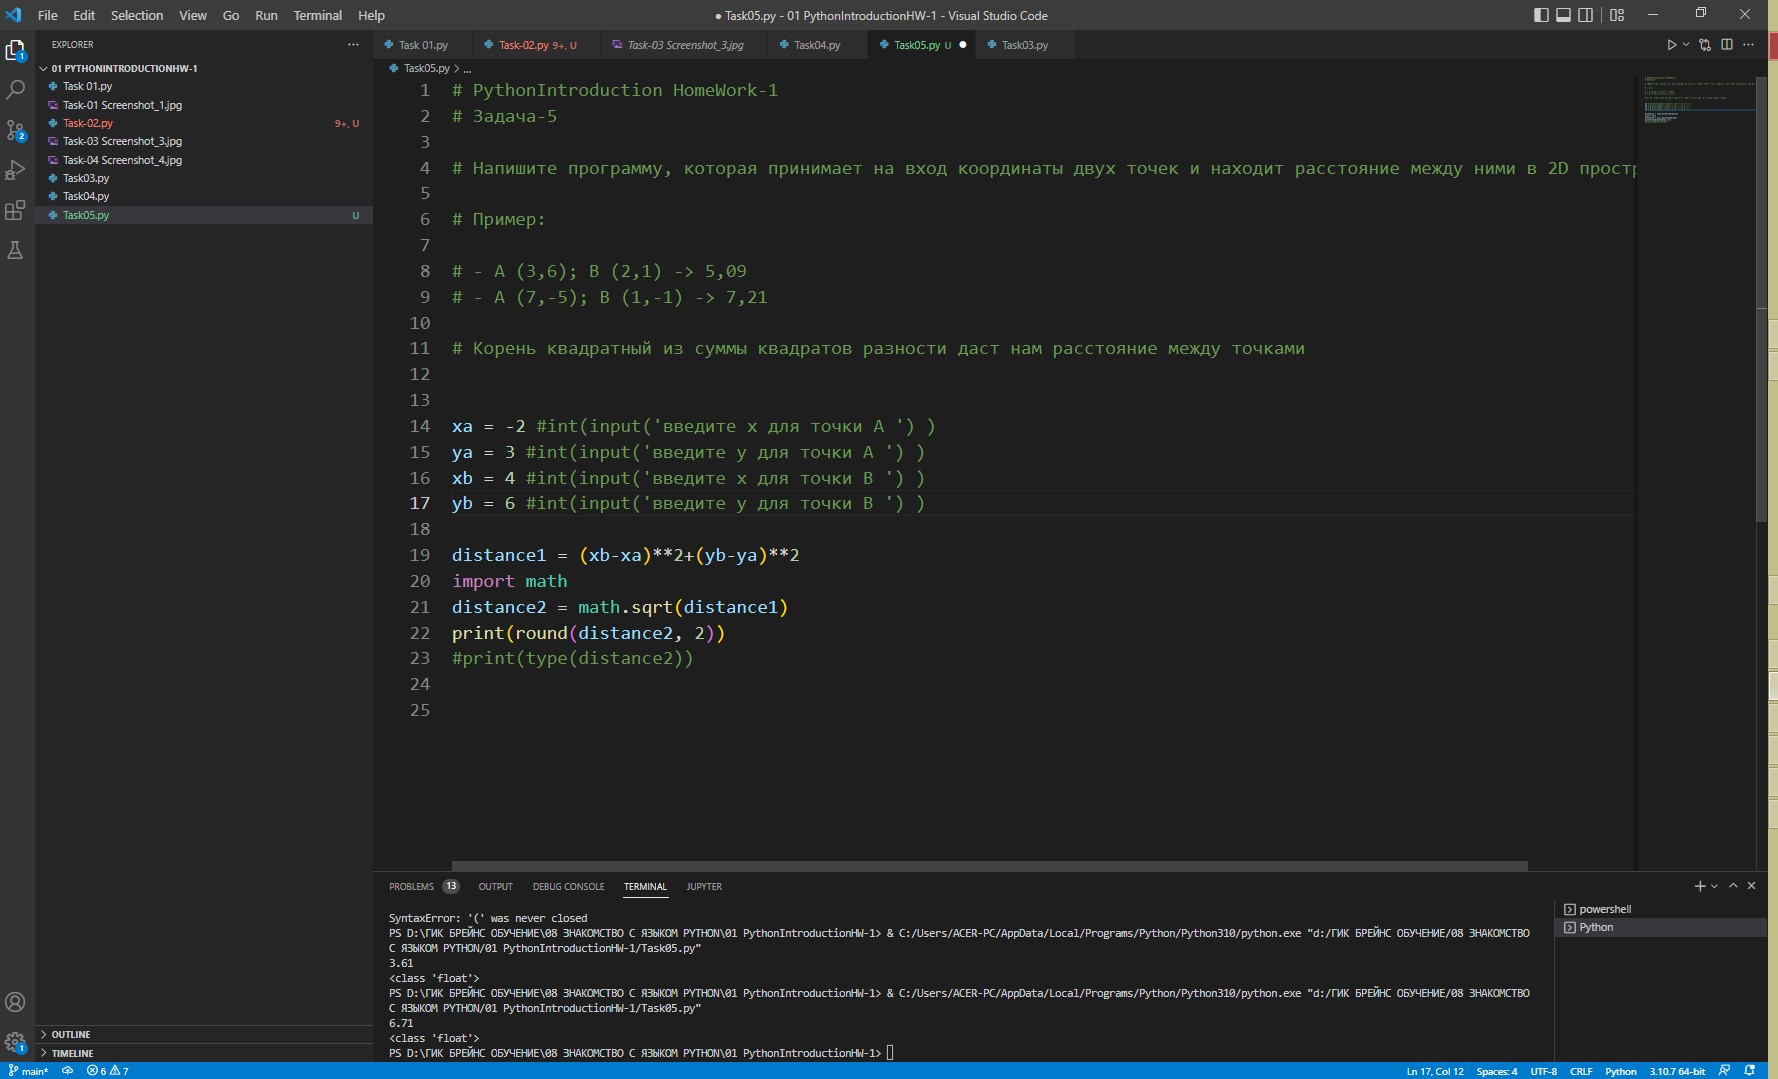
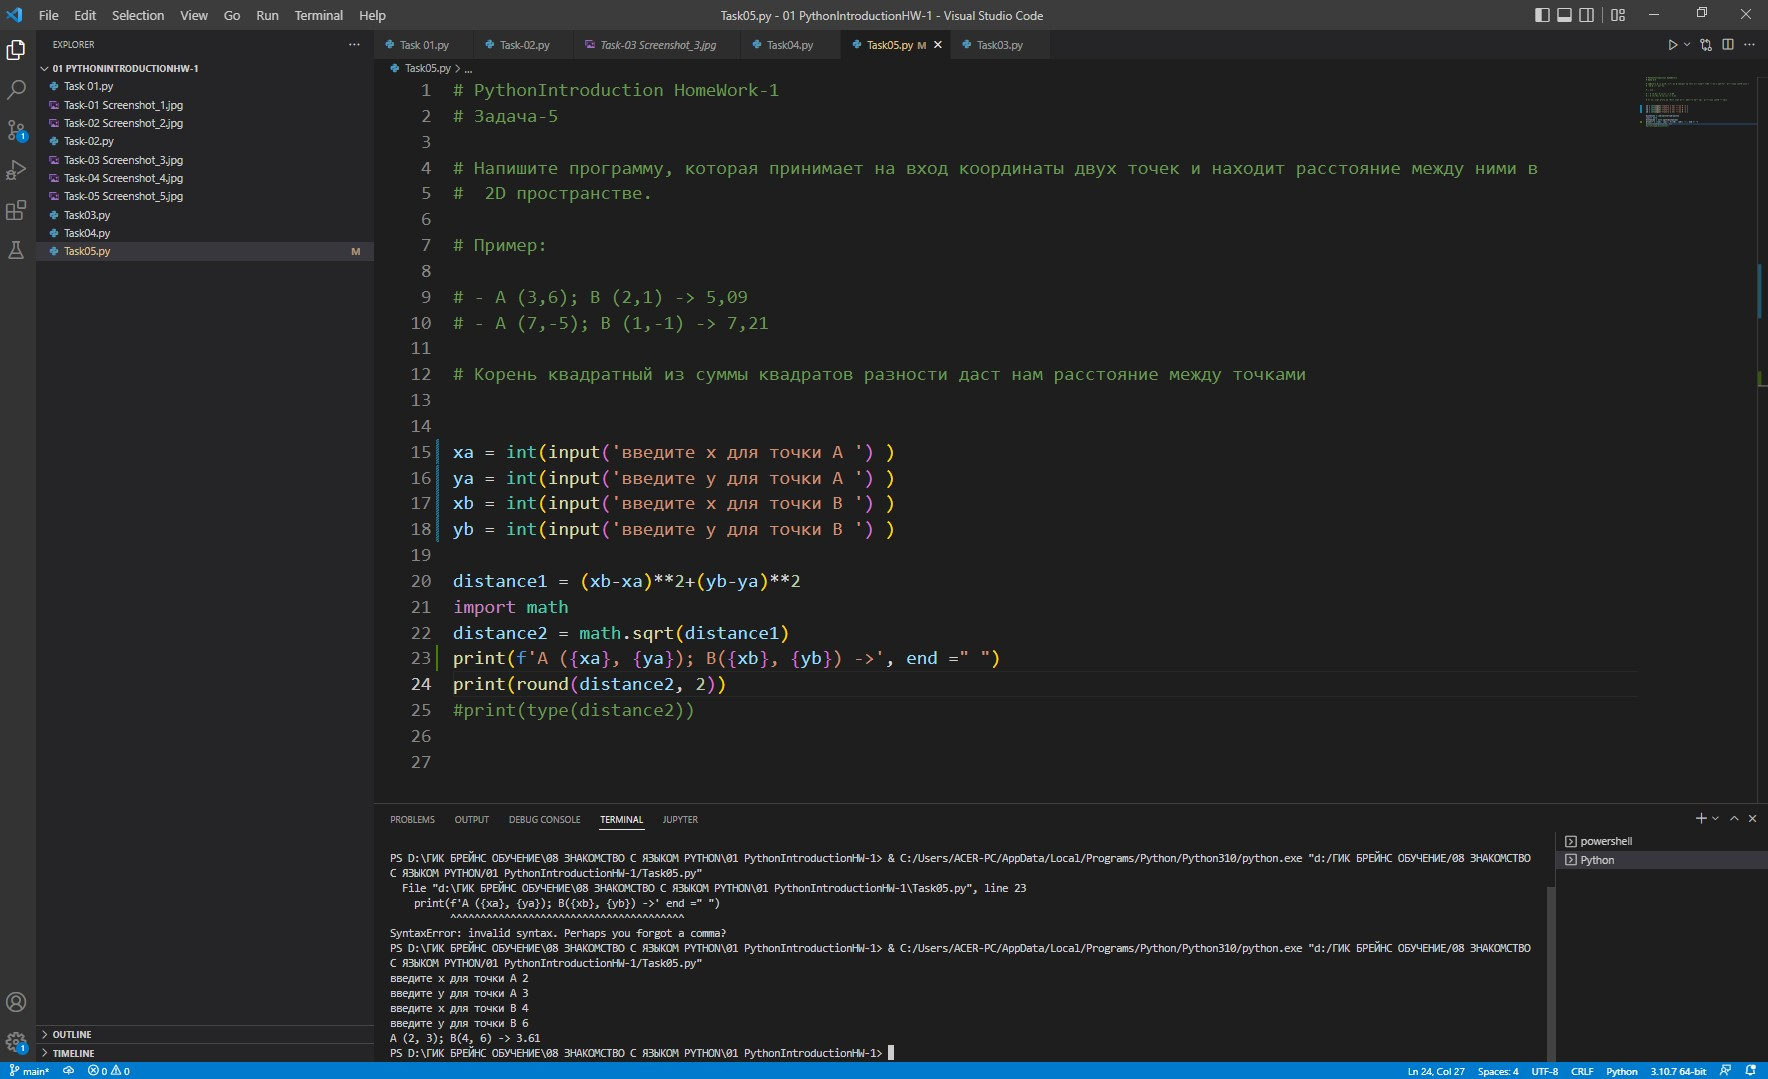
Modified Task05 and modified picture

diff --git a/Task05.py b/Task05.py
@@ -12,14 +12,15 @@
 # Корень квадратный из суммы квадратов разности даст нам расстояние между точками
 
 
-xa = -2 #int(input('введите x для точки А ') )
-ya = 3 #int(input('введите y для точки А ') )
-xb = 4 #int(input('введите x для точки B ') )
-yb = 6 #int(input('введите y для точки B ') )
+xa = int(input('введите x для точки А ') )
+ya = int(input('введите y для точки А ') )
+xb = int(input('введите x для точки B ') )
+yb = int(input('введите y для точки B ') )
 
 distance1 = (xb-xa)**2+(yb-ya)**2
 import math
 distance2 = math.sqrt(distance1)
+print(f'A ({xa}, {ya}); B({xb}, {yb}) ->', end =" ")
 print(round(distance2, 2))
 #print(type(distance2))
 
